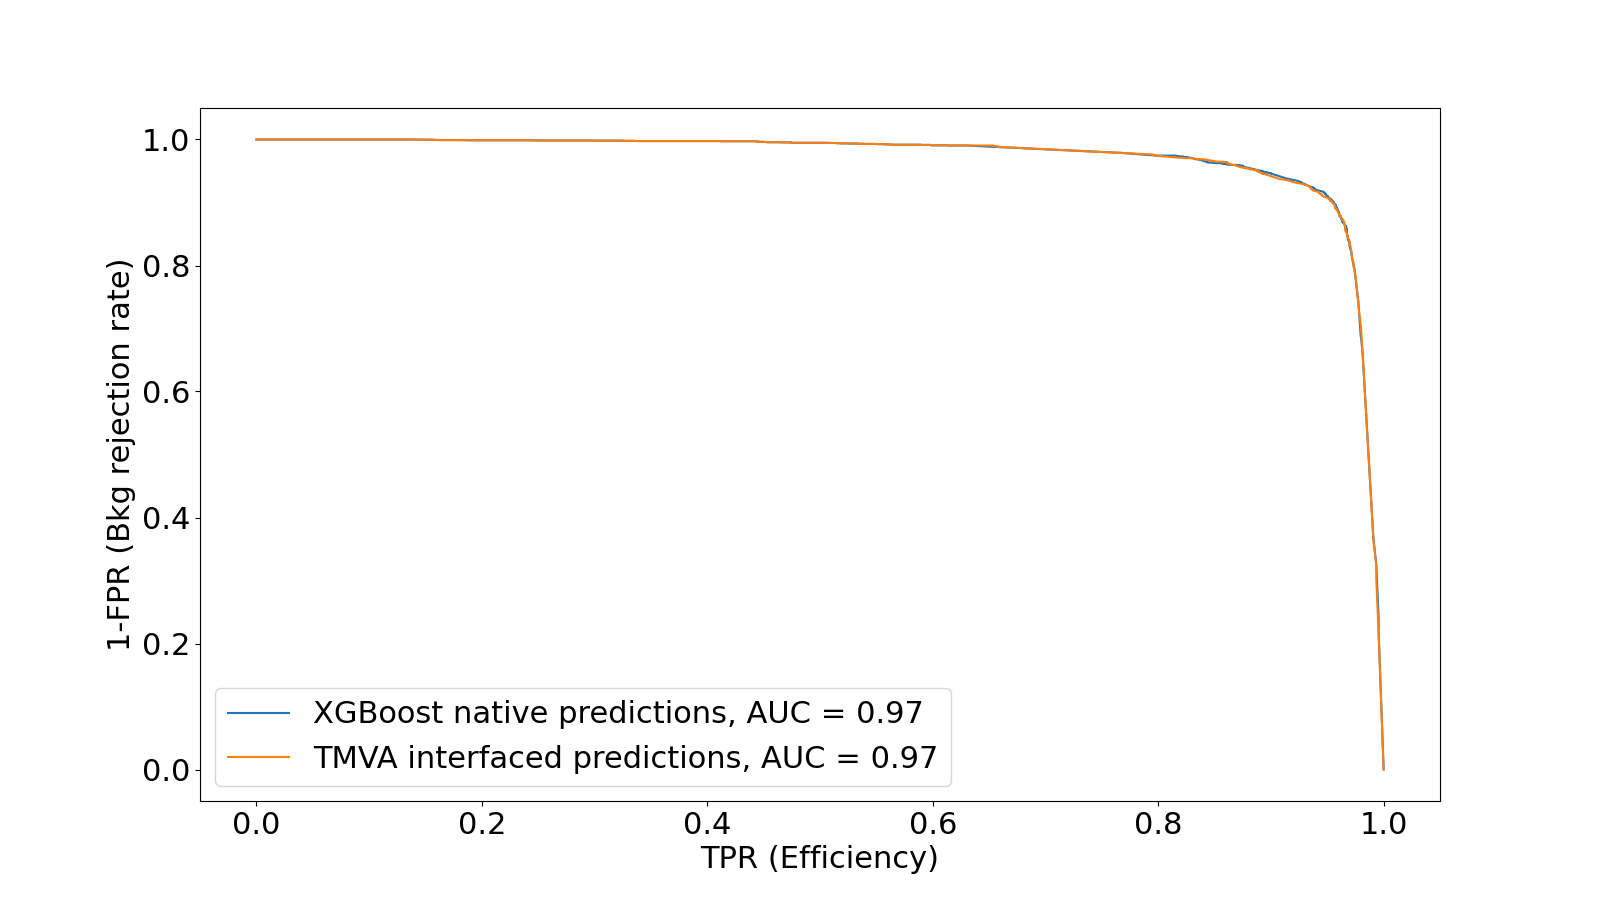
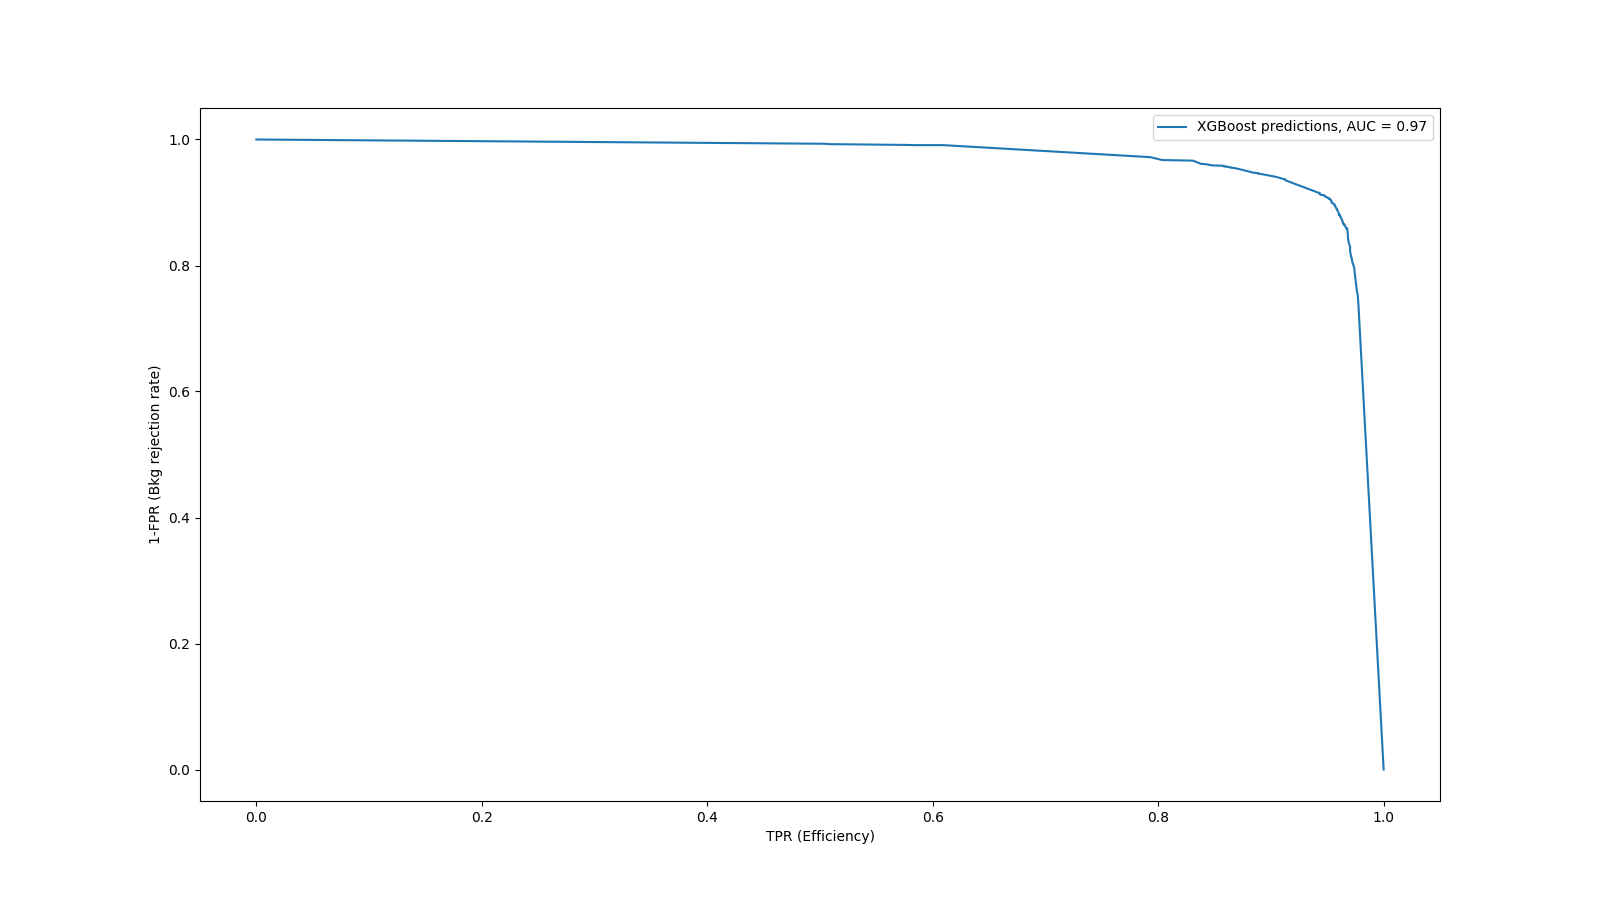
working training and reading back the model with xgboost 0.72.1

diff --git a/bdt_0_72_1/test_bdt.py b/bdt_0_72_1/test_bdt.py
@@ -1,60 +1,32 @@
-import ROOT
+## Imports
 import numpy as np
-from xgboost import XGBClassifier
-import matplotlib.pyplot as plt
-plt.rcParams.update({'font.size': 22})
-
+import xgboost as xgb # Using version 0.72.1
 from sklearn.metrics import roc_curve, auc
+import matplotlib.pyplot as plt
+
+## Constants
+random_seed = 42
+missing_value = -1000000.
 
 if __name__ == "__main__":
-
-    ## Reminder that variables are in this order: 
-    # variables = ["ipInSV", "ipSvtxdls", "ipSvtxm", "ip3dSig"]
-
-    X_val = np.loadtxt('./data_csv/X_val.csv', delimiter=',')
-    y_val = np.loadtxt('./data_csv/y_val.csv', delimiter=',')
-    w_val = np.loadtxt('./data_csv/w_val.csv', delimiter=',')
-
-    ## [DEBUG]: TMVA struggles with the missing values
-    # X_val = np.array([[0., -1000000., -1000000., 3.]])
-    # X_val = np.array([[1, 10., 5., 4.]])
+    ## Load pre-treated data
+    features = ["ipInSV", "ipSvtxdls", "ipSvtxm", "ip3dSig"]
+    dtrain = xgb.DMatrix("./data_svmlight/dtrain.dat", feature_names=features)
+    dtest = xgb.DMatrix("./data_svmlight/dtest.dat", feature_names=features)
+    dval = xgb.DMatrix("./data_svmlight/dval.dat", feature_names=features)
     
-    fname = "./saved_models/xgboost_bdt.txt"
-    print("Loading classifier from", fname)
-    bdt = XGBClassifier()
-    bdt.load_model(fname)
-
-    print("Using data:\n", X_val[-5:])
-    
-    y_pred = bdt.predict_proba(X_val)
-    print("xgboost native prediction(s):\n", y_pred[-5:])
-    
-    fname_tmva = "./saved_models/xgboost_bdt.root"
-    bdt_name_tmva = "TrackFromBClassifier"
-    print("Loading classifier", bdt_name_tmva, "from", fname_tmva)
-    bdt_tmva = ROOT.TMVA.Experimental.RBDT[""](bdt_name_tmva, fname_tmva)
- 
-    ## Make prediction
-    y_pred_tmva = np.zeros(shape=(X_val.shape[0], 2))
-    for i in range(X_val.shape[0]):
-        xi = X_val[i].tolist()
-        yi = bdt_tmva.Compute(xi)[0]
-        yi = np.array([1 - yi, yi])
-        y_pred_tmva[i] = yi
-        
-    print("xgboost TMVA prediction(s):\n", y_pred_tmva[-5:])
+    ## Load the saved model 
+    fin = "./saved_models/trained_bst.model"
+    bst = xgb.Booster(model_file=fin)
 
     ## Plot ROC curve
-
-    fpr, tpr, threshold = roc_curve(y_val, y_pred.T[1], sample_weight=w_val)
+    yval = dval.get_label()
+    ypred = bst.predict(dval)
+    fpr, tpr, threshold = roc_curve(yval, ypred)
     auc_xgboost = auc(tpr, 1-fpr)
 
-    fpr_tmva, tpr_tmva, threshold_tmva = roc_curve(y_val, y_pred_tmva.T[1], sample_weight=w_val)
-    auc_tmva = auc(tpr_tmva, 1-fpr_tmva)
-
     fig, ax = plt.subplots(figsize=(16, 9))
-    ax.plot(tpr, 1-fpr, label="XGBoost native predictions, AUC = {:.2f}".format(auc_xgboost))
-    ax.plot(tpr_tmva, 1-fpr_tmva, label="TMVA interfaced predictions, AUC = {:.2f}".format(auc_tmva))
+    ax.plot(tpr, 1-fpr, label="XGBoost predictions, AUC = {:.2f}".format(auc_xgboost))
     ax.set_xlabel("TPR (Efficiency)")
     ax.set_ylabel("1-FPR (Bkg rejection rate)")
     ax.legend()

diff --git a/bdt_0_72_1/use_trained_bdt.py b/bdt_0_72_1/use_trained_bdt.py
@@ -6,59 +6,30 @@ on track-from-B MC data
 """
 
 ## Imports
-import ROOT
 import numpy as np
 import xgboost as xgb # Using version 0.72.1
 
+## Constants
+random_seed = 42
+missing_value = -1000000.
+
 if __name__ == "__main__":
     ## Load the saved model 
+    features = ["ipInSV", "ipSvtxdls", "ipSvtxm", "ip3dSig"]
+    fin = "./saved_models/trained_bst.model"
+    bst = xgb.Booster(model_file=fin)
 
-    # Directly into a classifier
-    # model_name = "./saved_models/xgboost_bdt.txt"
-    # bdt = XGBClassifier()
-    # bdt.load_model(model_name)
+    ## [DEBUG]: Read features from saved model
+    print("Model features: {}".format(bst.feature_names))
+    # Note: Feature names are not saved in the model but they seem to keep their order
 
-    # Into a booster
-    model_name_cmssw = "./saved_models/xgboost_bdt_cmsssw.model"
-    bst = xgb.Booster(model_file=model_name_cmssw)
-
-    # With pyROOT/TMVA
-    model_name_tmva = "./saved_models/xgboost_bdt.root"
-    bdt_tmva = ROOT.TMVA.Experimental.RBDT[""]("TrackFromBClassifier", model_name_tmva)
-
-    ## Make a prediction
-
-    # reminder that the BDT was trained on: 
-    # discr_variables = ["ipInSV", "ipSvtxdls", "ipSvtxm", "ip3dSig"]
-
-    missing_value = -1000000.
-
-    X_pred = np.array([[1, 2., 3., 10.], 
-                       [0, missing_value, missing_value, 6.],
-                       [0, missing_value, missing_value, 1.]]) # needs to be a 2D array
-
-    d_pred = xgb.DMatrix(X_pred)
-
-    # y_pred = bdt.predict(X_pred)
-    y_pred_cmssw = bst.predict(d_pred)
-
-    # print("\nXGBClassifier: Predicted class(es) for: \n{} \nare: \n{}".format(X_pred, y_pred))
-    print("\nXGBooster: Predicted class(es) for: \n{} \nare: \n{}".format(X_pred, y_pred_cmssw))
-
-    ## We can also get the probabilities for each class
-
-    # y_proba = bdt.predict_proba(X_pred)
-
-    # print("\nPredicted probabilities for: \n{} \nare: \n{}".format(X_pred, y_proba))
-
-    # ## Do the same with pyROOT and see if the predicted probability is the same 
-
+    ## Make predictions
+    xpred = np.array([[1., 2., 3., 5.],
+                      [0., missing_value, missing_value, 1.],
+                      [0., missing_value, missing_value, 10.]])
+    dpred = xgb.DMatrix(xpred, feature_names=features)
+    ypred = bst.predict(dpred)
+    for i in range(len(ypred)):
+        print("Booster prediction for {} is {}".format(xpred[i], ypred[i]))
+    # Note: Same prediction as when trained, hurray!
     
-    # y_proba_tmva = np.zeros(shape=(X_pred.shape[0], 2))
-    # for i in range(X_pred.shape[0]):
-    #     xi = X_pred[i].tolist()
-    #     yi = bdt_tmva.Compute(xi)[0]
-    #     yi = np.array([1 - yi, yi])
-    #     y_proba_tmva[i] = yi
-
-    # print("\nPredicted probabilities by TMVA for: \n{} \nare: \n{}".format(X_pred, y_proba_tmva))

diff --git a/bdt_0_72_1/train_bdt.py b/bdt_0_72_1/train_bdt.py
@@ -6,35 +6,22 @@ on track-from-B MC data
 """
 
 ## Imports
-
-import uproot
-import pandas as pd
 import numpy as np
 import matplotlib.pyplot as plt
+import xgboost as xgb # Using version 0.72.1
 
-import ROOT
-
-from sklearn.model_selection import train_test_split
-import xgboost as xgb
-
+## Constants
 random_seed = 42
 missing_value = -1000000.
 
 if __name__ == "__main__":
     ## Load pre-treated data
-
     features = ["ipInSV", "ipSvtxdls", "ipSvtxm", "ip3dSig"]
-
     dtrain = xgb.DMatrix("./data_svmlight/dtrain.dat", feature_names=features)
     dtest = xgb.DMatrix("./data_svmlight/dtest.dat", feature_names=features)
     dval = xgb.DMatrix("./data_svmlight/dval.dat", feature_names=features)
 
-    ## [DEBUG]: Print feature names
-
-    # print("Feature names: ", dtrain.feature_names)
-
     ## Train the model (BDT)
-
     params = {"objective": "binary:logistic", 
               "missing": missing_value, 
               "seed": random_seed, 
@@ -55,13 +42,11 @@ if __name__ == "__main__":
     # Note: the feature names as successfully passed to bst
 
     ## Get best iteration
-
     best_iteration = bst.best_iteration
     best_ntree_limit = bst.best_ntree_limit
     print("\nBest iteration: {}, best ntree limit: {}". format(best_iteration, best_ntree_limit))
 
     ## Plot evaluation metric
-
     fig, ax = plt.subplots(figsize=(16, 9))
     ax.plot(evals_result["train"][eval_metric], label="Training {}".format(eval_metric))
     ax.plot(evals_result["eval"][eval_metric], label="Validation {}".format(eval_metric))
@@ -72,19 +57,25 @@ if __name__ == "__main__":
     fig.savefig("./plots/loss_function_bdt.png")
 
     ## Grab the best iteration 
-
     print("\nRe-training the model with the parameters of the best iteration...")
     bst = xgb.train(params, dtrain, best_iteration)
 
     ## Print the accuracy of the model
-
     preds = bst.predict(dval) # preds is a numpy array with the probability for the positive class
     labels = dval.get_label()
 
-    print('Accuracy score = %f' % (1-(sum(1 for i in range(len(preds)) if int(preds[i] > 0.5) != labels[i]) / float(len(preds)))))
+    print('Accuracy score at 0.5: %f' % (1-(sum(1 for i in range(len(preds)) if int(preds[i] > 0.5) != labels[i]) / float(len(preds)))))
+
+    ## Make predictions
+    xpred = np.array([[1., 2., 3., 5.],
+                      [0., missing_value, missing_value, 1.],
+                      [0., missing_value, missing_value, 10.]])
+    dpred = xgb.DMatrix(xpred, feature_names=features)
+    ypred = bst.predict(dpred)
+    for i in range(len(ypred)):
+        print("Booster prediction for {} is {}".format(xpred[i], ypred[i]))
 
     ## Save the trained model
-    
     fout = "./saved_models/trained_bst.model"
     print("Saving the model as {}".format(fout))
     bst.save_model(fout)

diff --git a/bdt_0_72_1/README.md b/bdt_0_72_1/README.md
@@ -1,6 +1,6 @@
 Tested with python 3.6 and ROOT 6.24.
 
-To get the ROOT 6.24 easily on a CentOS machine run:
+To get the ROOT 6.24 easily on a CentOS machine (eg. lxplus) run:
 `. /cvmfs/sft.cern.ch/lcg/app/releases/ROOT/6.24.08/x86_64-centos7-gcc48-opt/bin/thisroot.sh`
 
 More information on the cvmfs:
